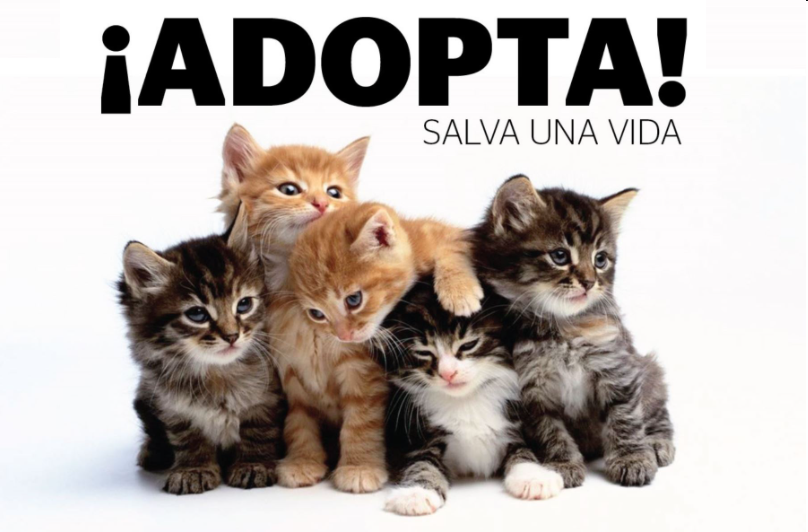
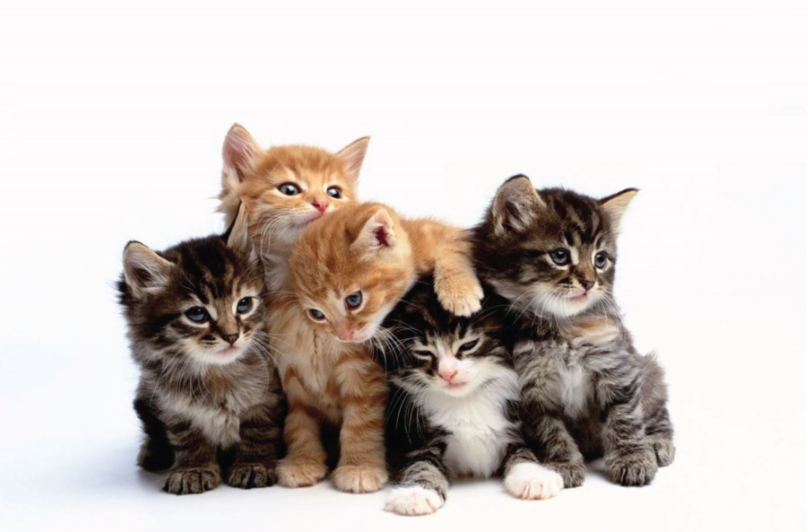
modificaciones section adoption

Changed region(s): [[0.1238, 0.0301, 0.8663, 0.2707]]

diff --git a/index.html b/index.html
@@ -11,7 +11,7 @@
     integrity="sha384-AYmEC3Yw5cVb3ZcuHtOA93w35dYTsvhLPVnYs9eStHfGJvOvKxVfELGroGkvsg+p" crossorigin="anonymous" />
   <!--GoogleFonts Lobster two-->
   <link rel="preconnect" href="https://fonts.gstatic.com">
-<link href="https://fonts.googleapis.com/css2?family=Lobster+Two&display=swap" rel="stylesheet">
+  <link href="https://fonts.googleapis.com/css2?family=Lobster+Two&display=swap" rel="stylesheet">
   <!--My CSS-->
   <link rel="stylesheet" href="assets/css/style.css">
   <!--Jquery-->
@@ -24,10 +24,12 @@
   <!--Section RRSS-->
   <section id="rrss" class="py-2">
     <div class="container d-flex justify-content-center align-items-center">
-      <a href="https://www.facebook.com" target="_blank" data-bs-toggle="tooltip" data-bs-placement="bottom" title="Click! para ir a facebook"><i class="text-success fab fa-facebook-f fa-2x"></i></a>
-      <a href="https://www.instagram.com" target="_blank" data-bs-toggle="tooltip" data-bs-placement="bottom" title="Click! para ir a instagram"><i class="text-success fab fa-instagram fa-2x mx-3"></i></a>
-      <a href="https://api.whatsapp.com/send?phone=569912345678" target="_blank" data-bs-toggle="tooltip" data-bs-placement="bottom"
-        title="Click! para enviar whatsapp"><i
+      <a href="https://www.facebook.com" target="_blank" data-bs-toggle="tooltip" data-bs-placement="bottom"
+        title="Click! para ir a facebook"><i class="text-success fab fa-facebook-f fa-2x"></i></a>
+      <a href="https://www.instagram.com" target="_blank" data-bs-toggle="tooltip" data-bs-placement="bottom"
+        title="Click! para ir a instagram"><i class="text-success fab fa-instagram fa-2x mx-3"></i></a>
+      <a href="https://api.whatsapp.com/send?phone=569912345678" target="_blank" data-bs-toggle="tooltip"
+        data-bs-placement="bottom" title="Click! para enviar whatsapp"><i
           class="text-success fab fa-whatsapp fa-2x"></i></a>
       <i class="text-success fas fa-phone fa-2x mx-2"></i>
       <i class="text-success fw-bold">Llamanos +569 1234 5678</i>
@@ -53,7 +55,7 @@
             <a class="nav-link" href="#">Productos</a>
           </li>
           <li class="nav-item">
-            <a class="nav-link" href="#">Adopta tu mascota</a>
+            <a class="nav-link" href="#">Adopta</a>
           </li>
           <li class="nav-item">
             <a class="nav-link" href="#">Contactanos</a>
@@ -86,26 +88,28 @@
   <!--Carrousel-->
   <div id="carouselExampleCaptions" class="carousel slide" data-bs-ride="carousel">
     <div class="carousel-indicators carousel-indicators--bottom">
-      <button type="button" data-bs-target="#carouselExampleCaptions" data-bs-slide-to="0" class="active carousel-indicators__button"
-        aria-current="true" aria-label="Slide 1"></button>
-      <button type="button" data-bs-target="#carouselExampleCaptions" data-bs-slide-to="1"
-        aria-label="Slide 2" class="carousel-indicators__button"></button>
-      <button type="button" data-bs-target="#carouselExampleCaptions" data-bs-slide-to="2"
-        aria-label="Slide 3" class="carousel-indicators__button"></button>
+      <button type="button" data-bs-target="#carouselExampleCaptions" data-bs-slide-to="0"
+        class="active carousel-indicators__button" aria-current="true" aria-label="Slide 1"></button>
+      <button type="button" data-bs-target="#carouselExampleCaptions" data-bs-slide-to="1" aria-label="Slide 2"
+        class="carousel-indicators__button"></button>
+      <button type="button" data-bs-target="#carouselExampleCaptions" data-bs-slide-to="2" aria-label="Slide 3"
+        class="carousel-indicators__button"></button>
     </div>
     <div class="carousel-inner">
       <div class="carousel-item active">
         <img src="assets/img/play-carousel.jpg" class="d-block  w-100 carousel-item__imagen" alt="...">
         <div class="carousel-caption d-none d-md-block">
           <h5 class="fs-1 fw-bold carousel-item__title">Accesorios y jueguetes</h5>
-          <p class="fs-3 fw-bold carousel-item__parragraph">Encuentra el accesorio o juguete para que tu mascota este a la moda y feliz.</p>
+          <p class="fs-3 fw-bold carousel-item__parragraph">Encuentra el accesorio o juguete para que tu mascota este a
+            la moda y feliz.</p>
         </div>
       </div>
       <div class="carousel-item">
         <img src="assets/img/eat-carousel.jpg" class="d-block  w-100 carousel-item__imagen" alt="...">
         <div class="carousel-caption d-none d-md-block">
           <h5 class="fs-1 fw-bold carousel-item__title">Alimento</h5>
-          <p class="fs-3 fw-bold carousel-item__parragraph">Encuentra el alimento adecuado para que tu mascota crezca fuerte y
+          <p class="fs-3 fw-bold carousel-item__parragraph">Encuentra el alimento adecuado para que tu mascota crezca
+            fuerte y
             saludable.</p>
         </div>
       </div>
@@ -146,7 +150,8 @@
                 </div>
                 <div class="col-6 offset-1">
                   <h4>Alimentos</h4>
-                  <p class="fst-italic text-success">Lorem ipsum dolor sit amet consectetur adipisicing elit. Repudiandae amet
+                  <p class="fst-italic text-success">Lorem ipsum dolor sit amet consectetur adipisicing elit.
+                    Repudiandae amet
                     dignissimos iste. Voluptates,
                     accusantium. Ipsam excepturi assumenda voluptates enim in.</p>
                 </div>
@@ -200,38 +205,47 @@
 
   <!--Luis-->
   <!-- adopta tu gato-->
-  <section class="section-adoption bg-success text-center text-white">
-    <h2 class="section-adoption__title">Adopta un Gato</h2>
-    <img class="section-adoption__img d-block" src="assets/img/adoption.png" alt="cat">
-
-
-    <div class="py-3">
-      <h2>CLUB GATERO</h2>
-      <p>Adopción: gatos</p>
-      <p>Misión: Facilitar la adopción de gatos rescatados.</p>
-      <p>Contacto:
-        http://clubgatero.cl/
-        <br>
-        adopciones@clubgatero.cl</p>
+  <section class="section-adoption">
+    <div class="container py-5 border-top border-3 border-success">
+      <h2 class="text-success fs-1 fw-bold text-center">¡Adopta!</h2>
+      <img class="section-adoption__img" src="assets/img/adoption.png" alt="cat">
+      <form class="form">
+        <div class="text-center w-50 bg-success py-5 mx-auto form__container">
+          <h5 class="text-white text-center py-3">Inscribete y adopta un gatito.</h5>
+          <div class="mb-3 px-5">
+            <input type="text" name="text" class="form-control fw-light" id="exampleFormControlInput0" placeholder="Nombre">
+          </div>
+          <div class="mb-3 px-5">
+            <input type="email" name="email" class="form-control fw-light" id="exampleFormControlInput1"
+              placeholder="Correo electrónico">
+          </div>
+          <div class="mb-3 px-5">
+            <input type="phone" name="phone" class="form-control fw-light" id="exampleFormControlInput1" placeholder="Teléfono">
+          </div>
+          <div class="d-flex justify-content-center">
+            <button type="submit" class="btn btn-light px-4 form__botton">Enviar</button>
+          </div>
+          <!--Modal-->
+          <div class="modal form__modal" tabindex="-1">
+            <div class="modal-dialog">
+              <div class="modal-content">
+                <div class="modal-header">
+                  <button type="button" class="btn-close" data-bs-dismiss="modal" aria-label="Close"></button>
+                </div>
+                <div class="modal-body">
+                  <p>Gracias por inscribirte!! pronto te contactaremos.</p>
+                </div>
+                <div class="modal-footer">
+                  <button type="button" class="btn btn-success text-white" data-bs-dismiss="modal">Close</button>
+                </div>
+              </div>
+            </div>
+          </div>
+          <!--Fin Modal-->
+        </div>
+      </form>
     </div>
   </section>
-
-  <!--formulario-->
-  <div class="container bg-success my-5 pb-4">
-    <form>
-      <h5 class="text-white text-center py-3">Adopta!!, inscribete y adopta tu mascota.</h5>
-      <div class="mb-3">
-        <input type="text" class="form-control fw-light" id="exampleFormControlInput0" placeholder="Nombre">
-      </div>
-      <div class="mb-3">
-        <input type="email" class="form-control fw-light" id="exampleFormControlInput1"
-          placeholder="Correo electrónico">
-      </div>
-      <div class="d-flex justify-content-center">
-        <button type="submit" class="btn btn-light px-4">Enviar</button>
-      </div>
-    </form>
-  </div>
 
   <!--MJ 2.0-->
   <div id="scrollTopButton">

diff --git a/assets/css/sass/layout/_carousel-container.scss b/assets/css/sass/layout/_carousel-container.scss
@@ -22,7 +22,6 @@
 }
 
 .carousel-indicators{
-
 &__button{
   width:18px !important;
   height: 18px !important;
@@ -30,9 +29,18 @@
   border: 2px solid white !important;
   border-radius: 50%;
 }
-
 }
 
+.section-adoption__img {
+  display:block;
+  width: 30%;
+  border-radius: 5%;
+  opacity: 0.8;
+  margin:auto;
+}
 
+.form__container{
+ border-radius: 5%;
+}
 
 

diff --git a/assets/css/style.css b/assets/css/style.css
@@ -10754,6 +10754,18 @@ textarea.form-control-lg {
   border-radius: 50%;
 }
 
+.section-adoption__img {
+  display: block;
+  width: 30%;
+  border-radius: 5%;
+  opacity: 0.8;
+  margin: auto;
+}
+
+.form__container {
+  border-radius: 5%;
+}
+
 .productos__row {
   align-items: center;
   margin-left: 10%;

diff --git a/assets/js/script.js b/assets/js/script.js
@@ -7,6 +7,9 @@ var tooltipList = tooltipTriggerList.map(function (tooltipTriggerEl) {
   return new bootstrap.Tooltip(tooltipTriggerEl)
 })
 
+$('.form__botton').click(function(){
+$('.form__modal').modal('show');
+})
 
 
 });
